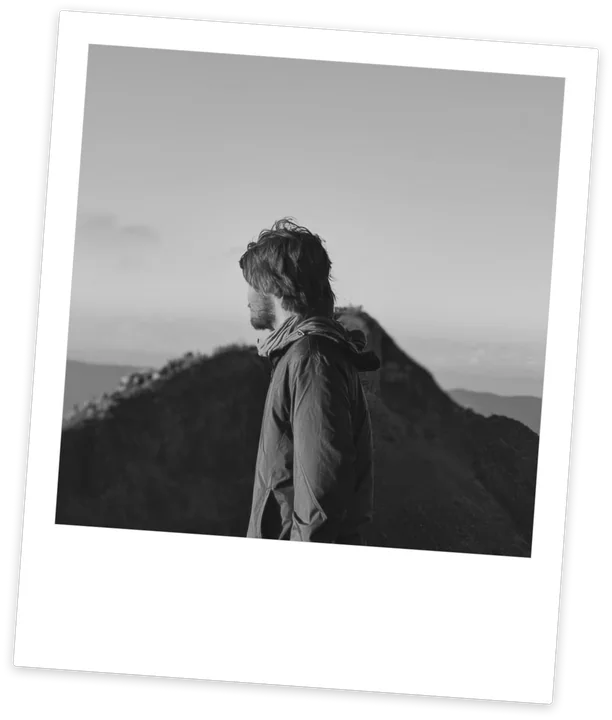
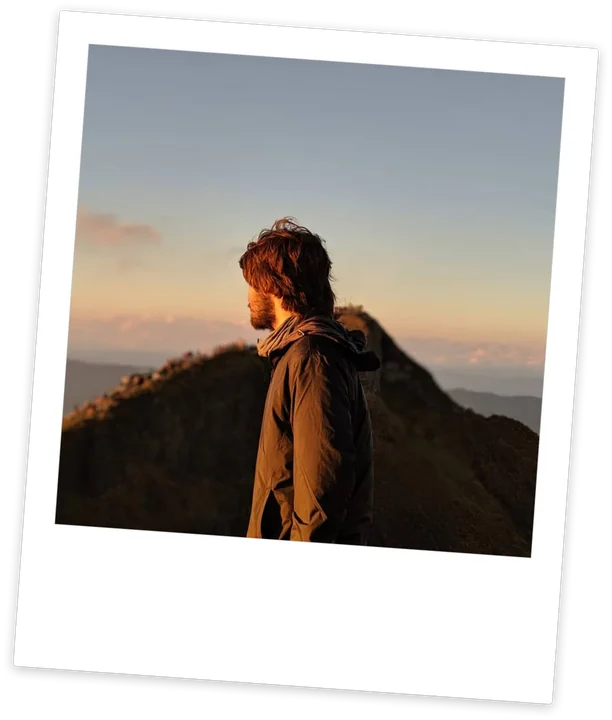
Chore: Add polaroid hover behavior

diff --git a/src/app/page.tsx b/src/app/page.tsx
@@ -58,7 +58,7 @@ export default function Home() {
               alt="polaroid"
               width={612}
               height={720}
-              className="hidden h-53.5 w-auto shrink-0 self-start md:block"
+              className="hidden h-53.5 w-auto shrink-0 self-start grayscale transition-[filter] duration-225 hover:grayscale-0 md:block"
               priority
               unoptimized
             />
